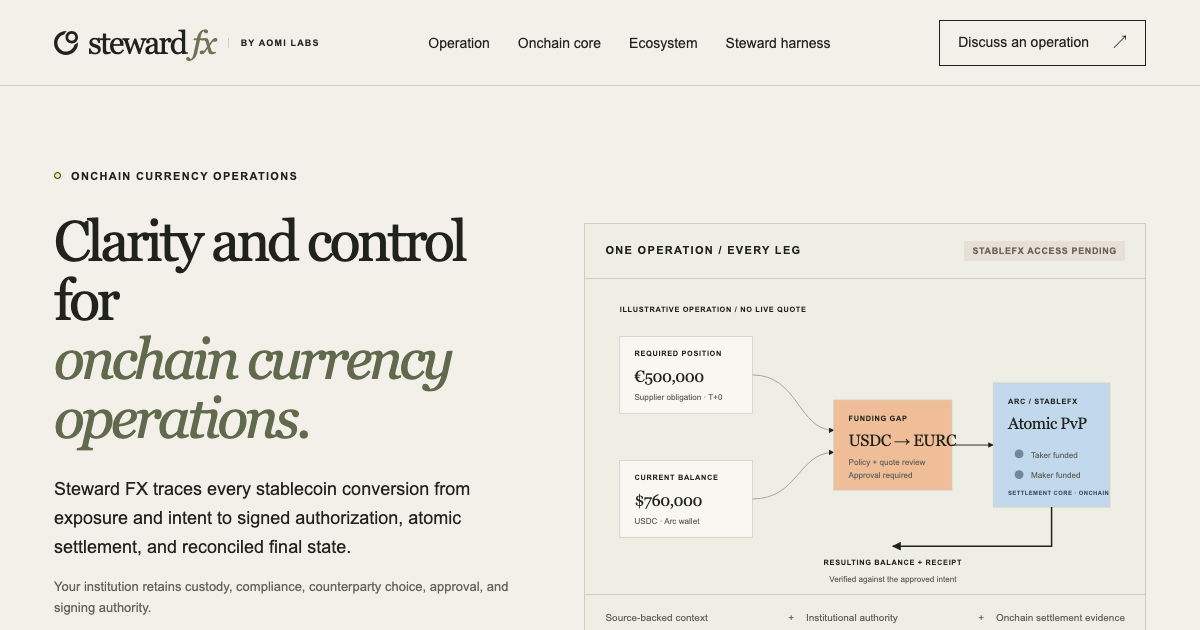
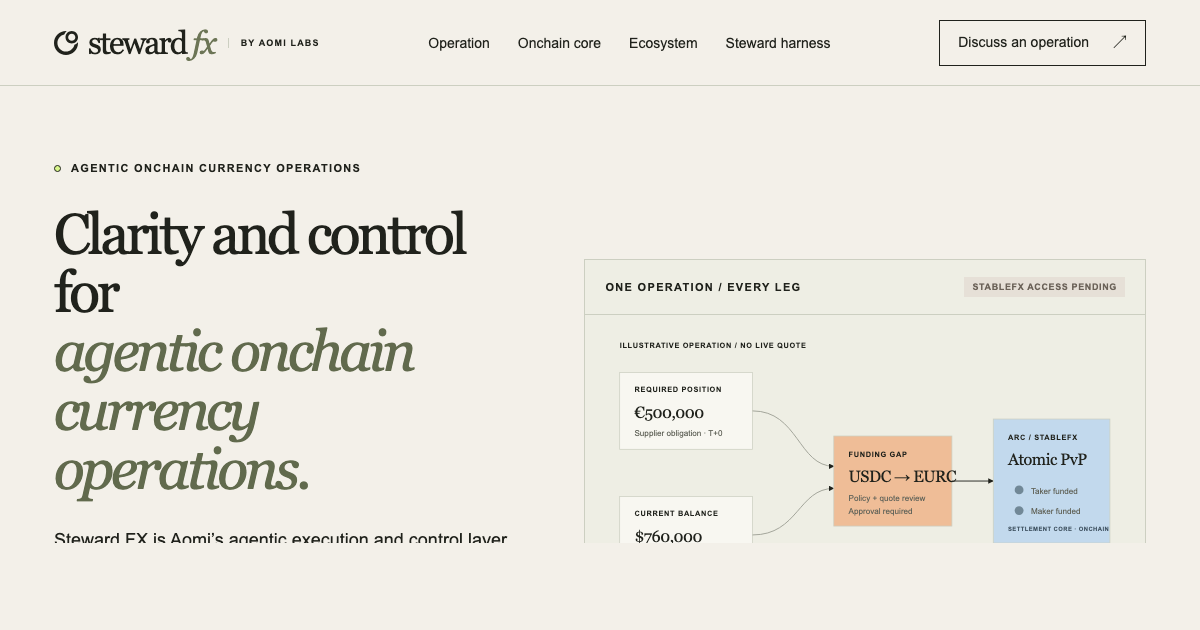
Position Steward FX as agentic execution layer

diff --git a/src/App.tsx b/src/App.tsx
@@ -212,9 +212,9 @@ export function App() {
     <main>
       <section className="hero wrap">
         <div className="hero-copy">
-          <span className="caption live"><i /> ONCHAIN CURRENCY OPERATIONS</span>
-          <h1>Clarity and control for <em>onchain currency operations.</em></h1>
-          <p>Steward FX traces every stablecoin conversion from exposure and intent to signed authorization, atomic settlement, and reconciled final state.</p>
+          <span className="caption live"><i /> AGENTIC ONCHAIN CURRENCY OPERATIONS</span>
+          <h1>Clarity and control for <em>agentic onchain currency operations.</em></h1>
+          <p>Steward FX is Aomi’s agentic execution and control layer for stablecoin FX—connecting exposure and intent to simulation, signed authorization, atomic settlement, and reconciled final state.</p>
           <p className="assurance">Your institution retains custody, compliance, counterparty choice, approval, and signing authority.</p>
           <div className="hero-actions"><ContactLink dark /><a className="text-link" href="#operation">Trace the operation <span>↓</span></a></div>
         </div>
@@ -225,7 +225,7 @@ export function App() {
         </div>
       </section>
 
-      <div className="principles wrap"><span>Built for treasury and liquidity operators</span><span>Explainable route selection</span><span>Mandate-controlled signing</span><span>Chain-verified settlement</span></div>
+      <div className="principles wrap"><span>AI-prepared, institution-authorized</span><span>Explainable route selection</span><span>Mandate-controlled signing</span><span>Chain-verified settlement</span></div>
 
       <section className="section wrap" id="operation">
         <SectionHeading number="01" eyebrow="THE OPERATION" title="One currency need. A complete decision record.">Move from business obligation to settled tokens without losing the context, authority, or evidence between systems.</SectionHeading>
@@ -248,7 +248,7 @@ export function App() {
       </section>
 
       <section className="section wrap" id="harness">
-        <SectionHeading number="04" eyebrow="THE STEWARD HARNESS" title="The same base discipline, applied to FX.">AI can prepare and automate the work while the institution’s policies, approvals, and signing systems remain authoritative.</SectionHeading>
+        <SectionHeading number="04" eyebrow="THE AGENTIC STEWARD HARNESS" title="AI prepares the operation. Institutions stay in control.">Agentic execution can observe, reason, simulate, and prepare the work while institutional policies, approvals, and signing systems remain authoritative.</SectionHeading>
         <div className="harness-grid">{harness.map(([name, detail], index) => <div className="harness-step" key={name}><span>{String(index + 1).padStart(2, '0')}</span><b>{name}</b><p>{detail}</p></div>)}</div>
         <div className="legacy-band"><span className="caption">INTEGRATION BOUNDARY</span><h3>Onchain money legos.<br />Legacy control plane.</h3><p>Steward is designed to connect wallets, custody, approval systems, compliance policy, accounting, and chain execution—without claiming authority those systems retain.</p><div><span>Wallet / custodian</span><span>Policy engine</span><span>Approval workflow</span><span>Institutional signer</span><span>ERP / ledger</span></div></div>
       </section>
@@ -260,7 +260,7 @@ export function App() {
 
       <section className="section steward-line wrap">
         <div className="steward-mark"><AomiMark size={76} /><span>steward</span><small>BY AOMI LABS</small></div>
-        <div><span className="caption">STEWARDSHIP ACROSS ONCHAIN FINANCE</span><h2>Steward is Steward.</h2><p>Steward makes complex onchain financial operations legible, governable, and automatable. Steward FX is one expression of that foundation: the currency operation is the object, but the discipline is the same.</p><div className="inline-links"><a href="https://steward-aomi-labs.vercel.app" target="_blank" rel="noreferrer">Explore Steward ↗</a><a href="https://aomi.dev" target="_blank" rel="noreferrer">Aomi Labs ↗</a></div></div>
+        <div><span className="caption">AGENTIC STEWARDSHIP ACROSS ONCHAIN FINANCE</span><h2>Steward is Steward.</h2><p>Steward makes agentic onchain financial operations legible, governable, and verifiable. Steward FX is one expression of that foundation: the currency operation is the object, but the base harness and institutional control boundary stay the same.</p><div className="inline-links"><a href="https://steward-aomi-labs.vercel.app" target="_blank" rel="noreferrer">Explore Steward ↗</a><a href="https://aomi.dev" target="_blank" rel="noreferrer">Aomi Labs ↗</a></div></div>
       </section>
 
       <section className="invitation wrap"><span className="caption">DESIGN PARTNERS</span><h2>Bring one real<br /><em>currency operation.</em></h2><div><p>Evaluate Steward FX against your stablecoin balances, corridor needs, approval process, and signing controls.</p><ContactLink dark /></div></section>

diff --git a/index.html b/index.html
@@ -6,21 +6,21 @@
     <meta name="theme-color" content="#f3f0e9" />
     <link rel="icon" href="/favicon.svg" type="image/svg+xml" />
     <link rel="canonical" href="https://stewardfx.vercel.app/" />
-    <meta name="description" content="Steward FX is the intelligence and control layer for onchain currency operations." />
+    <meta name="description" content="Steward FX is Aomi's agentic execution and control layer for onchain currency operations." />
     <meta name="robots" content="index, follow" />
     <meta property="og:type" content="website" />
     <meta property="og:url" content="https://stewardfx.vercel.app/" />
-    <meta property="og:title" content="Steward FX — Clarity and control for onchain currency operations" />
-    <meta property="og:description" content="Trace stablecoin currency operations from exposure to settlement and reconciled final state." />
+    <meta property="og:title" content="Steward FX — Agentic onchain currency operations" />
+    <meta property="og:description" content="AI prepares the operation. Institutions authorize it. StableFX settles it atomically on Arc." />
     <meta property="og:image" content="https://stewardfx.vercel.app/stewardfx-og.png" />
     <meta property="og:image:width" content="1200" />
     <meta property="og:image:height" content="630" />
     <meta property="og:image:alt" content="Steward FX explains an illustrative stablecoin currency operation from business need to atomic onchain settlement." />
     <meta name="twitter:card" content="summary_large_image" />
-    <meta name="twitter:title" content="Steward FX — Clarity and control for onchain currency operations" />
-    <meta name="twitter:description" content="Trace stablecoin currency operations from exposure to settlement and reconciled final state." />
+    <meta name="twitter:title" content="Steward FX — Agentic onchain currency operations" />
+    <meta name="twitter:description" content="Aomi's agentic execution and control layer around StableFX settlement on Arc." />
     <meta name="twitter:image" content="https://stewardfx.vercel.app/stewardfx-og.png" />
-    <title>Steward FX — Onchain currency operations</title>
+    <title>Steward FX — Agentic onchain currency operations</title>
   </head>
   <body>
     <div id="root"></div>
